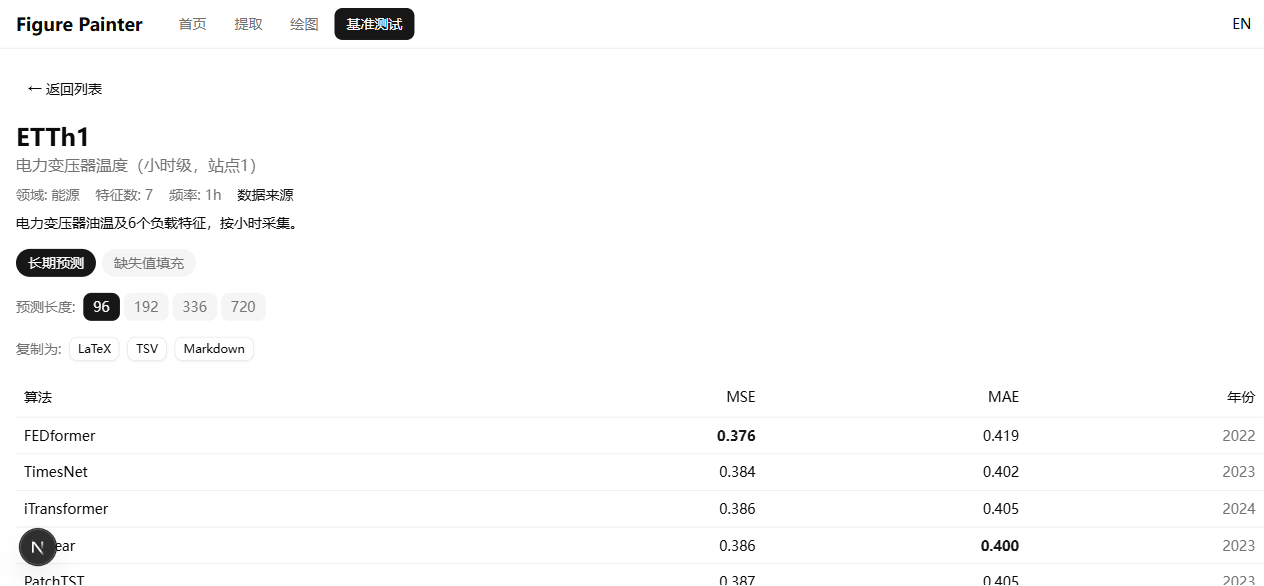
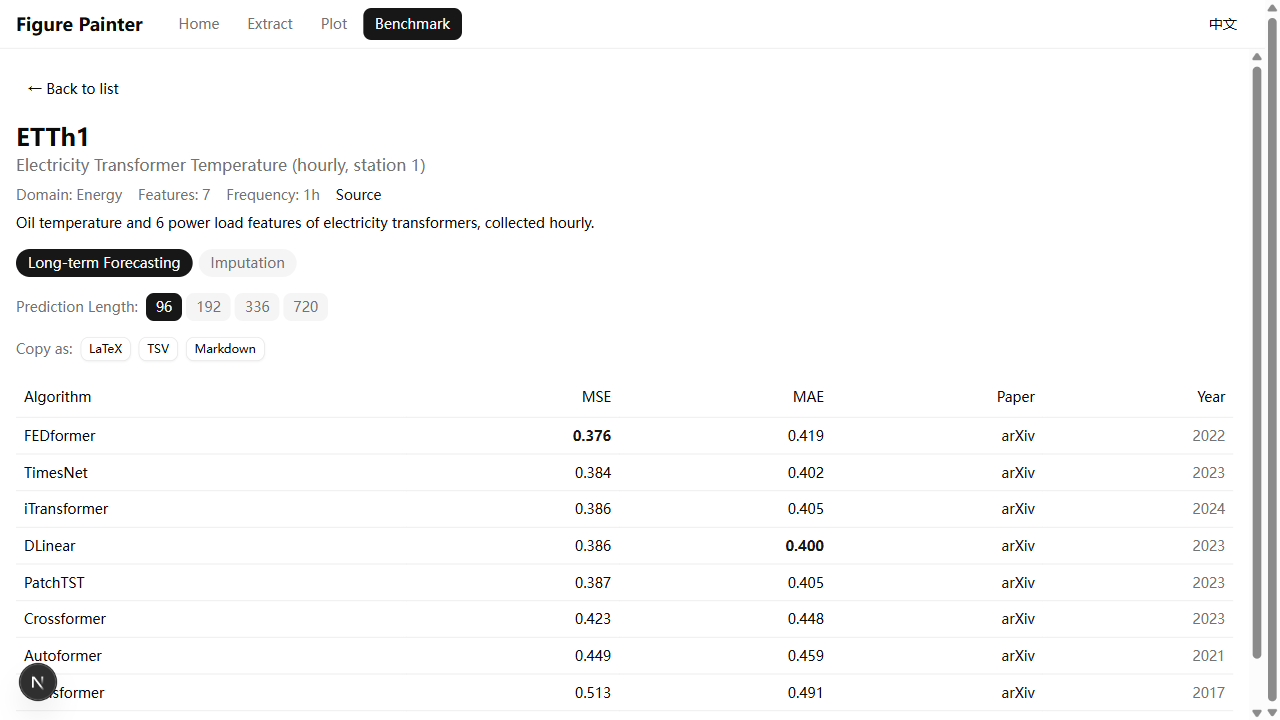
docs: restructure README with highlights and live demo link
- Add live demo link (figure.vlooong.top) to both READMEs
- Replace screenshots section with concise project highlights
- Streamline feature descriptions, add new capabilities
- Update screenshots with proper English content

diff --git a/README.md b/README.md
@@ -1,69 +1,46 @@
 # Figure Painter
 
-A web-based tool for extracting data from scientific paper figures and creating publication-quality plots.
+A browser-based toolkit for scientific paper figure data extraction, publication-quality plotting, and benchmark result querying — all client-side, no server required.
+
+**Live Demo: [figure.vlooong.top](https://figure.vlooong.top)**
 
 [中文文档](./README.zh-CN.md)
 
-## Screenshots
+## Why Figure Painter?
 
-### Data Extraction
-
-![Data Extraction](docs/screenshots/extract-page.png)
-
-### Scientific Plotting
-
-![Scientific Plotting](docs/screenshots/plot-page.png)
-
-![Style Templates](docs/screenshots/plot-page-templates.png)
-
-![Chart Export](docs/screenshots/plot-page-export.png)
-
-### Benchmark Query
-
-![Benchmark List View](docs/screenshots/benchmark-list-view.png)
-
-![Benchmark Detail View](docs/screenshots/benchmark-detail-view.png)
+- **Extract data from paper figures** — Upload a chart image, calibrate axes, pick curve colors, and automatically extract data points. No more manual reading of graph values.
+- **Create journal-ready plots** — Built-in style templates for Nature, IEEE, ACS, Science and more. Export as high-DPI PNG or SVG, ready for submission.
+- **Query benchmark results instantly** — Search time series algorithm performance across standard datasets. Copy comparison tables as LaTeX, TSV, or Markdown directly into your paper.
+- **Everything in the browser** — Zero server dependency. Data stays on your machine via IndexedDB. Works offline after first load.
 
 ## Features
 
 ### Data Extraction
-- **Image Upload** — Upload figure images (PNG, JPG, BMP, WebP) with zoom and pan
-- **Axis Calibration** — 4-point calibration system with linear/log scale support
-- **Color Picker** — Sample curve colors from the image with adjustable tolerance
-- **Curve Extraction** — Automatically extract data points by color matching
-- **Interactive Editing** — Drag points on canvas or edit values in the data table
-- **Overlay Verification** — Overlay extracted curve on original image to verify accuracy
-- **Export** — Export data as CSV or Excel, or send directly to the plotting module
-- **Collapsible Sidebar** — Toggle left-side extraction panels to maximize canvas space
-- **Calibration Visualization** — Visual feedback showing calibration point positions on the image
-- **Sample Step Control** — Adjust point density during extraction for optimal data resolution
+- **Image Upload** — PNG, JPG, BMP, WebP with zoom and pan
+- **Axis Calibration** — 4-point system with linear/log scale support
+- **Color-Based Extraction** — Sample curve colors with adjustable tolerance, auto-extract data points
+- **Manual Drawing** — Place points along curves manually when auto-extraction isn't suitable
+- **Overlay Verification** — Superimpose extracted curve on the original image for accuracy check
+- **Export** — CSV, Excel, or send directly to the plotting module
 
 ### Scientific Plotting
-- **ECharts Engine** — Interactive chart rendering with real-time preview
-- **Multi-Dataset** — Overlay multiple datasets on the same plot with dual Y-axis support
-- **Style Templates** — Built-in academic journal styles:
-  - **Default** — Clean general-purpose style
-  - **Nature** — Compact style for Nature journal figures
-  - **IEEE** — Column-width style for IEEE publications
-  - **ACS** — ACS single-column figure style
-  - **Science** — Minimal style for Science journal figures
-- **Custom Overrides** — Adjust title font size, line width, colors, grid visibility
-- **Chart Export** — Export as PNG or SVG with configurable DPI (72–600)
-- **Draggable Points** — Drag data points directly on the chart to adjust values interactively
-- **Auto-Fit Canvas** — Chart canvas automatically adapts to container resizing
-- **Unlimited Datasets** — No limit on number of datasets per chart
-- **Dataset Copy** — Duplicate datasets with one click for quick comparison variants
+- **ECharts Engine** — Interactive rendering with real-time preview
+- **Journal Templates** — Default, Nature, IEEE, ACS, Science, plus color-blind safe palettes (Vibrant, Muted, High Contrast)
+- **Multi-Dataset** — Unlimited datasets per chart, dual Y-axis, dataset duplication
+- **Fine Control** — Symbol shape/size, legend position, grid style, line type, smooth curves, axis font size
+- **Draggable Points** — Adjust data values by dragging points directly on the chart (toggleable for clean exports)
+- **Export** — PNG or SVG with configurable DPI (72–600)
 
 ### Benchmark Query
-- **Dataset Search** — Query time series prediction benchmark datasets by keyword with instant filtering
-- **Task Filtering** — Filter by task categories (forecasting, classification, anomaly detection, etc.)
-- **Algorithm Comparison** — View algorithm performance metrics (MSE, MAE) across multiple prediction horizons
-- **Paper References** — Direct links to original papers for each algorithm result
-- **Export Results** — Copy benchmark tables as LaTeX, TSV, or Markdown for paper writing
+- **Dataset Search** — 12 time series benchmark datasets with keyword filtering
+- **Task Categories** — Long/short-term forecasting, anomaly detection, classification, imputation
+- **Algorithm Comparison** — MSE/MAE metrics across prediction horizons (96, 192, 336, 720) with best-value highlighting
+- **Paper Links** — Direct arXiv links for every algorithm result
+- **Copy to Paper** — One-click export as LaTeX, TSV, or Markdown table
 
 ### General
-- **i18n** — Full Chinese and English language support
-- **Client-Side** — All processing happens in the browser, no server required
+- **Bilingual** — Full Chinese and English interface
+- **Client-Side Only** — All processing in the browser, no data leaves your machine
 - **Persistent Storage** — Datasets saved locally via IndexedDB (Dexie)
 
 ## Tech Stack
@@ -76,28 +53,15 @@ A web-based tool for extracting data from scientific paper figures and creating 
 | Charts | [ECharts 6](https://echarts.apache.org/) |
 | State Management | [Zustand 5](https://zustand.docs.pmnd.rs/) |
 | Local Database | [Dexie 4](https://dexie.org/) (IndexedDB) |
-| CSV Parsing | [PapaParse](https://www.papaparse.com/) |
-| Excel Export | [SheetJS](https://sheetjs.com/) |
+| CSV/Excel | [PapaParse](https://www.papaparse.com/) + [SheetJS](https://sheetjs.com/) |
 | Testing | [Vitest](https://vitest.dev/) + [Playwright](https://playwright.dev/) |
 
 ## Getting Started
 
-### Prerequisites
-
-- Node.js 18+
-- npm or pnpm
-
-### Install & Run
-
 ```bash
-# Clone the repository
 git clone https://github.com/your-username/figure-painter.git
 cd figure-painter
-
-# Install dependencies
 npm install
-
-# Start development server
 npm run dev
 ```
 
@@ -109,30 +73,27 @@ Open [http://localhost:3000](http://localhost:3000) in your browser.
 npm run build
 ```
 
-The static site is exported to the `out/` directory and can be deployed to any static hosting service.
+Static site exports to `out/` — deploy to any static hosting service.
 
 ## Project Structure
 
 ```
 figure-painter/
 ├── app/                    # Next.js pages (home, extract, plot, benchmark)
-│   └── benchmark/          # Benchmark query page
 ├── components/
 │   ├── benchmark/          # Benchmark query components
 │   ├── extract/            # Data extraction components
 │   ├── plot/               # Plotting components
 │   ├── shared/             # Navigation, Providers, LanguageSwitcher
 │   └── ui/                 # shadcn/ui primitives
+├── hooks/                  # Custom React hooks (useECharts, etc.)
 ├── lib/
 │   ├── i18n/               # Internationalization (en, zh)
-│   ├── benchmarkData.ts    # Benchmark dataset definitions
+│   ├── benchmarkData.ts    # Benchmark dataset & algorithm data
 │   ├── templates.ts        # Chart style templates
 │   └── types.ts            # TypeScript type definitions
-├── stores/                 # Zustand stores
-│   ├── extractStore.ts     # Extraction state
-│   ├── datasetStore.ts     # Dataset persistence (Dexie)
-│   └── plotStore.ts        # Plot configuration state
-└── services/               # Export services (CSV, Excel)
+├── stores/                 # Zustand stores (extract, dataset, plot)
+└── services/               # Export services (CSV, Excel, PNG, SVG)
 ```
 
 ## License

diff --git a/README.zh-CN.md b/README.zh-CN.md
@@ -1,70 +1,47 @@
 # Figure Painter
 
-基于浏览器的科研论文图表数据提取与绘图工具。
+基于浏览器的科研论文图表数据提取、出版级绘图与 Benchmark 结果查询工具 —— 纯客户端，无需服务器。
+
+**在线使用: [figure.vlooong.top](https://figure.vlooong.top)**
 
 [English](./README.md)
 
-## 截图预览
+## 为什么选择 Figure Painter？
 
-### 数据提取
-
-![数据提取](docs/screenshots/extract-page.png)
-
-### 科研绘图
-
-![科研绘图](docs/screenshots/plot-page.png)
-
-![风格模板](docs/screenshots/plot-page-templates.png)
-
-![图表导出](docs/screenshots/plot-page-export.png)
-
-### Benchmark 查询
-
-![Benchmark 列表视图](docs/screenshots/benchmark-list-view.png)
-
-![Benchmark 详情视图](docs/screenshots/benchmark-detail-view.png)
+- **从论文图表中提取数据** —— 上传图表图片，标定坐标轴，采样曲线颜色，自动提取数据点。告别手动读取图表数值。
+- **生成期刊级图表** —— 内置 Nature、IEEE、ACS、Science 等期刊风格模板。导出高 DPI PNG 或 SVG，直接用于投稿。
+- **即时查询 Benchmark 结果** —— 搜索时序算法在标准数据集上的性能指标。一键复制对比表格为 LaTeX、TSV 或 Markdown，直接粘贴到论文中。
+- **完全浏览器端运行** —— 零服务器依赖。数据通过 IndexedDB 保存在本地。首次加载后可离线使用。
 
 ## 功能特性
 
 ### 数据提取
-- **图片上传** — 支持上传 PNG、JPG、BMP、WebP 格式的图表图片，可缩放和平移
-- **坐标轴标定** — 4 点标定系统，支持线性和对数坐标
-- **取色器** — 从图像中采样曲线颜色，可调节容差
-- **曲线提取** — 基于颜色匹配自动提取数据点
-- **交互式编辑** — 在画布上拖拽数据点，或在数据表中直接编辑数值
-- **叠图验证** — 将提取的曲线叠加到原图上进行对比验证
-- **数据导出** — 导出为 CSV 或 Excel 格式，或直接发送到绘图模块
-- **可折叠侧边栏** — 切换左侧提取面板，最大化画布空间
-- **标定可视化** — 在图像上直观显示标定点位置
-- **采样步长控制** — 提取时调节数据点密度，获取最优数据分辨率
+- **图片上传** —— 支持 PNG、JPG、BMP、WebP，可缩放和平移
+- **坐标轴标定** —— 4 点标定系统，支持线性和对数坐标
+- **基于颜色的提取** —— 采样曲线颜色并调节容差，自动提取数据点
+- **手动绘制** —— 当自动提取不适用时，沿曲线手动放置数据点
+- **叠图验证** —— 将提取的曲线叠加到原图上进行对比验证
+- **数据导出** —— CSV、Excel，或直接发送到绘图模块
 
 ### 科研绘图
-- **ECharts 引擎** — 交互式图表渲染，实时预览
-- **多数据集** — 在同一图表中叠加多组数据，支持双 Y 轴
-- **风格模板** — 内置学术期刊绘图风格：
-  - **Default** — 通用简洁风格，标准配色
-  - **Nature** — 适用于 Nature 期刊的紧凑风格
-  - **IEEE** — 适用于 IEEE 出版物的栏宽风格
-  - **ACS** — ACS 单栏图表风格
-  - **Science** — 适用于 Science 期刊的简约风格
-- **自定义覆盖** — 调整标题字号、线宽、配色、网格显示
-- **图表导出** — 导出为 PNG 或 SVG，DPI 可配置（72–600）
-- **数据点拖拽** — 在图表上直接拖拽数据点调整数值
-- **画布自适应** — 图表画布自动适配容器尺寸变化
-- **无限数据集** — 取消每图数据集数量的限制
-- **数据集复制** — 一键复制数据集，方便快速对比不同变体
+- **ECharts 引擎** —— 交互式渲染，实时预览
+- **期刊模板** —— Default、Nature、IEEE、ACS、Science，以及色盲安全配色（鲜明、柔和、高对比）
+- **多数据集** —— 每图数据集数量无限制，双 Y 轴，一键复制数据集
+- **精细控制** —— 标记形状/大小、图例位置、网格样式、线条类型、平滑曲线、坐标轴字号
+- **数据点拖拽** —— 在图表上直接拖拽数据点调整数值（可关闭以获得干净的导出图）
+- **图表导出** —— PNG 或 SVG，DPI 可配置（72–600）
 
 ### Benchmark 查询
-- **数据集搜索** — 按关键词查询时序预测基准数据集，支持即时过滤
-- **任务类型筛选** — 按任务类别筛选（预测、分类、异常检测等）
-- **算法性能对比** — 查看各算法在多个预测长度上的性能指标（MSE、MAE）
-- **论文引用** — 提供每个算法结果的原始论文链接
-- **结果导出** — 将对比表格复制为 LaTeX、TSV 或 Markdown 格式，方便论文写作
+- **数据集搜索** —— 12 个时序基准数据集，支持关键词过滤
+- **任务类别** —— 长期/短期预测、异常检测、分类、缺失值填充
+- **算法对比** —— MSE/MAE 指标，支持多预测长度（96、192、336、720），最优值高亮
+- **论文链接** —— 每个算法结果均提供 arXiv 直链
+- **复制到论文** —— 一键导出为 LaTeX、TSV 或 Markdown 表格
 
 ### 通用特性
-- **国际化** — 完整的中英文双语支持
-- **纯客户端** — 所有处理均在浏览器端完成，无需服务器
-- **本地存储** — 数据集通过 IndexedDB (Dexie) 保存在本地
+- **双语界面** —— 完整的中英文支持
+- **纯客户端** —— 所有处理均在浏览器端完成，数据不离开本机
+- **本地持久化** —— 数据集通过 IndexedDB (Dexie) 保存在本地
 
 ## 技术栈
 
@@ -76,28 +53,15 @@
 | 图表 | [ECharts 6](https://echarts.apache.org/) |
 | 状态管理 | [Zustand 5](https://zustand.docs.pmnd.rs/) |
 | 本地数据库 | [Dexie 4](https://dexie.org/)（IndexedDB） |
-| CSV 解析 | [PapaParse](https://www.papaparse.com/) |
-| Excel 导出 | [SheetJS](https://sheetjs.com/) |
+| CSV/Excel | [PapaParse](https://www.papaparse.com/) + [SheetJS](https://sheetjs.com/) |
 | 测试 | [Vitest](https://vitest.dev/) + [Playwright](https://playwright.dev/) |
 
 ## 快速开始
 
-### 环境要求
-
-- Node.js 18+
-- npm 或 pnpm
-
-### 安装与运行
-
 ```bash
-# 克隆仓库
 git clone https://github.com/your-username/figure-painter.git
 cd figure-painter
-
-# 安装依赖
 npm install
-
-# 启动开发服务器
 npm run dev
 ```
 
@@ -109,30 +73,27 @@ npm run dev
 npm run build
 ```
 
-静态站点将导出到 `out/` 目录，可部署到任意静态托管服务。
+静态站点导出到 `out/` 目录，可部署到任意静态托管服务。
 
 ## 项目结构
 
 ```
 figure-painter/
 ├── app/                    # Next.js 页面（首页、提取、绘图、Benchmark）
-│   └── benchmark/          # Benchmark 查询页面
 ├── components/
 │   ├── benchmark/          # Benchmark 查询组件
 │   ├── extract/            # 数据提取组件
 │   ├── plot/               # 绘图组件
 │   ├── shared/             # 导航栏、Provider、语言切换
 │   └── ui/                 # shadcn/ui 基础组件
+├── hooks/                  # 自定义 React Hooks（useECharts 等）
 ├── lib/
 │   ├── i18n/               # 国际化（英文、中文）
-│   ├── benchmarkData.ts    # Benchmark 数据集定义
+│   ├── benchmarkData.ts    # Benchmark 数据集与算法数据
 │   ├── templates.ts        # 图表风格模板
 │   └── types.ts            # TypeScript 类型定义
-├── stores/                 # Zustand 状态管理
-│   ├── extractStore.ts     # 提取状态
-│   ├── datasetStore.ts     # 数据集持久化（Dexie）
-│   └── plotStore.ts        # 绘图配置状态
-└── services/               # 导出服务（CSV、Excel）
+├── stores/                 # Zustand 状态管理（提取、数据集、绘图）
+└── services/               # 导出服务（CSV、Excel、PNG、SVG）
 ```
 
 ## 许可证
